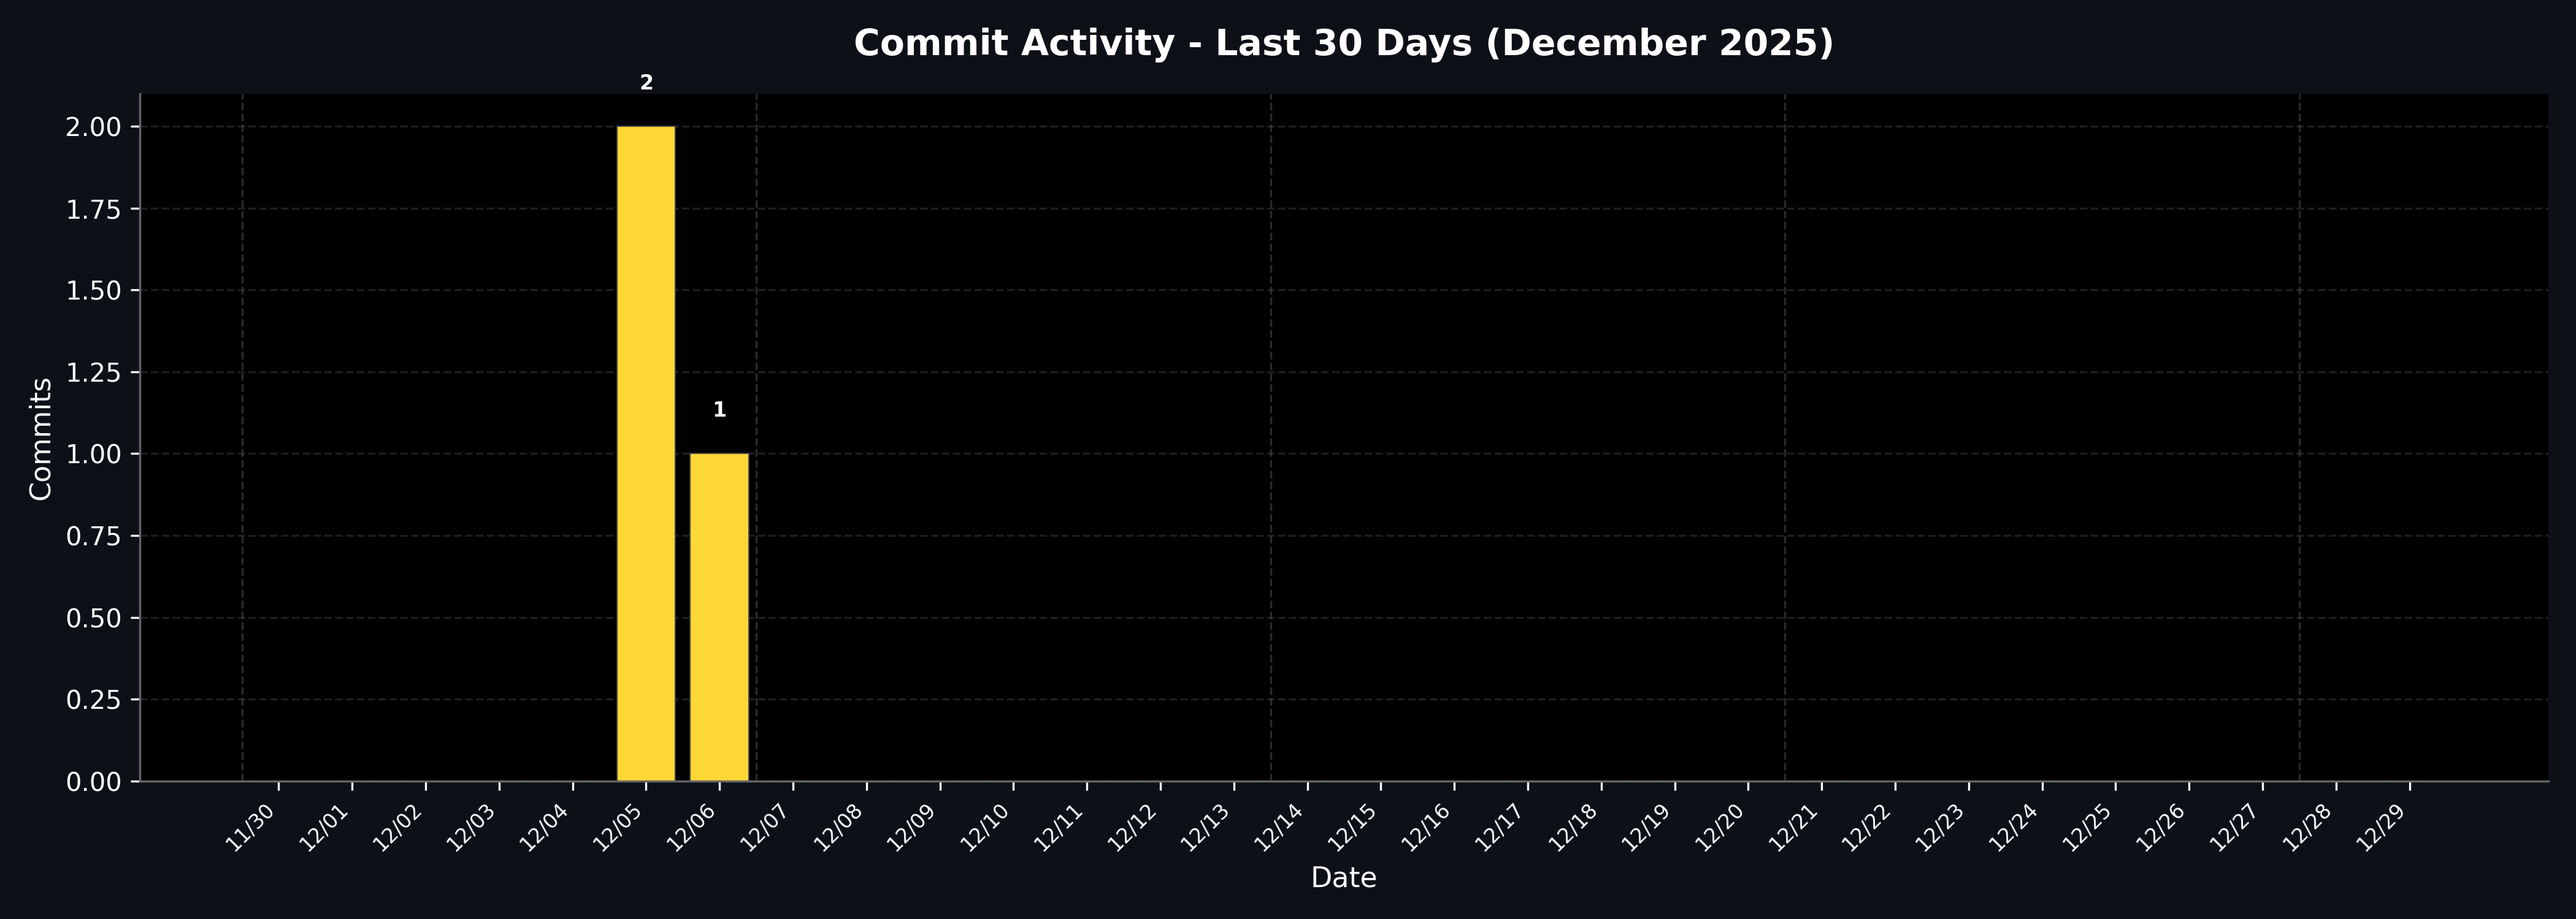
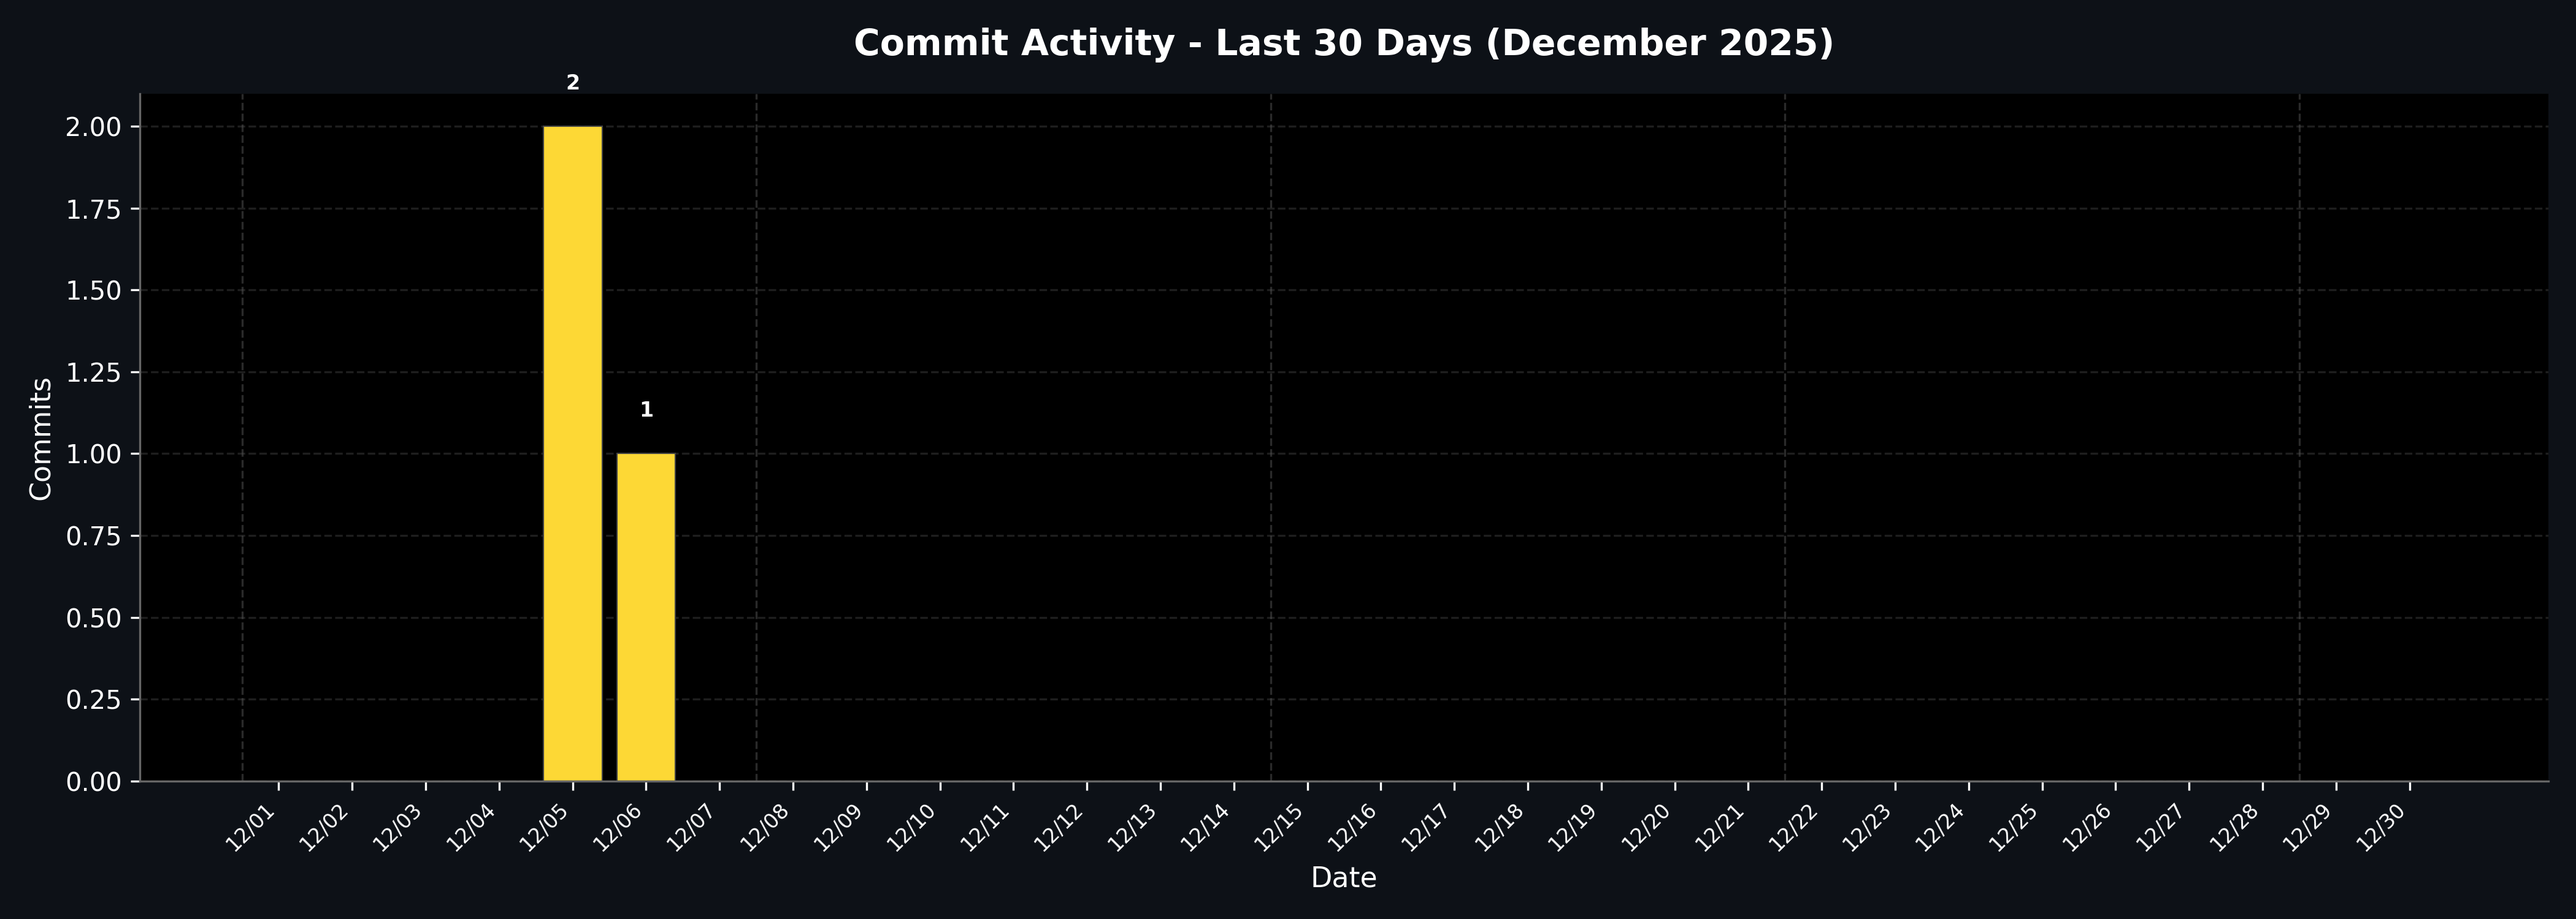
Auto update streak and chart for 2025-12-30

Changed region(s): [[0.1871, 0.1227, 0.3119, 0.8587]]

diff --git a/README.md b/README.md
@@ -28,7 +28,7 @@ This repository contains my daily practice and learning notes for **Data Structu
 
 **Current Streak:** 0 days  
 **Total Commits (30d):** 3  
-**Last Updated:** 2025-12-29
+**Last Updated:** 2025-12-30
 
 ## 📊 30-Day Activity Chart
 
